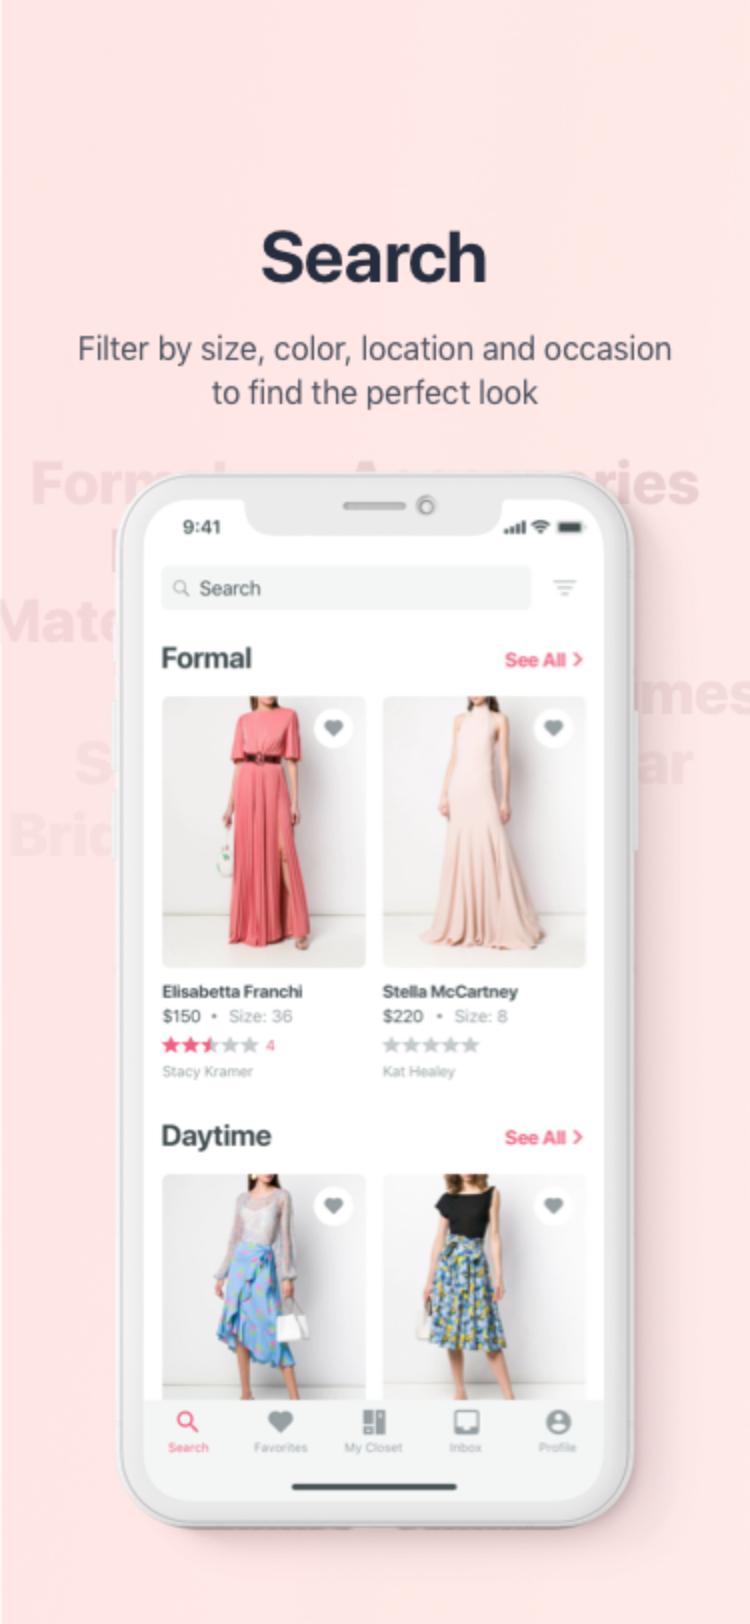
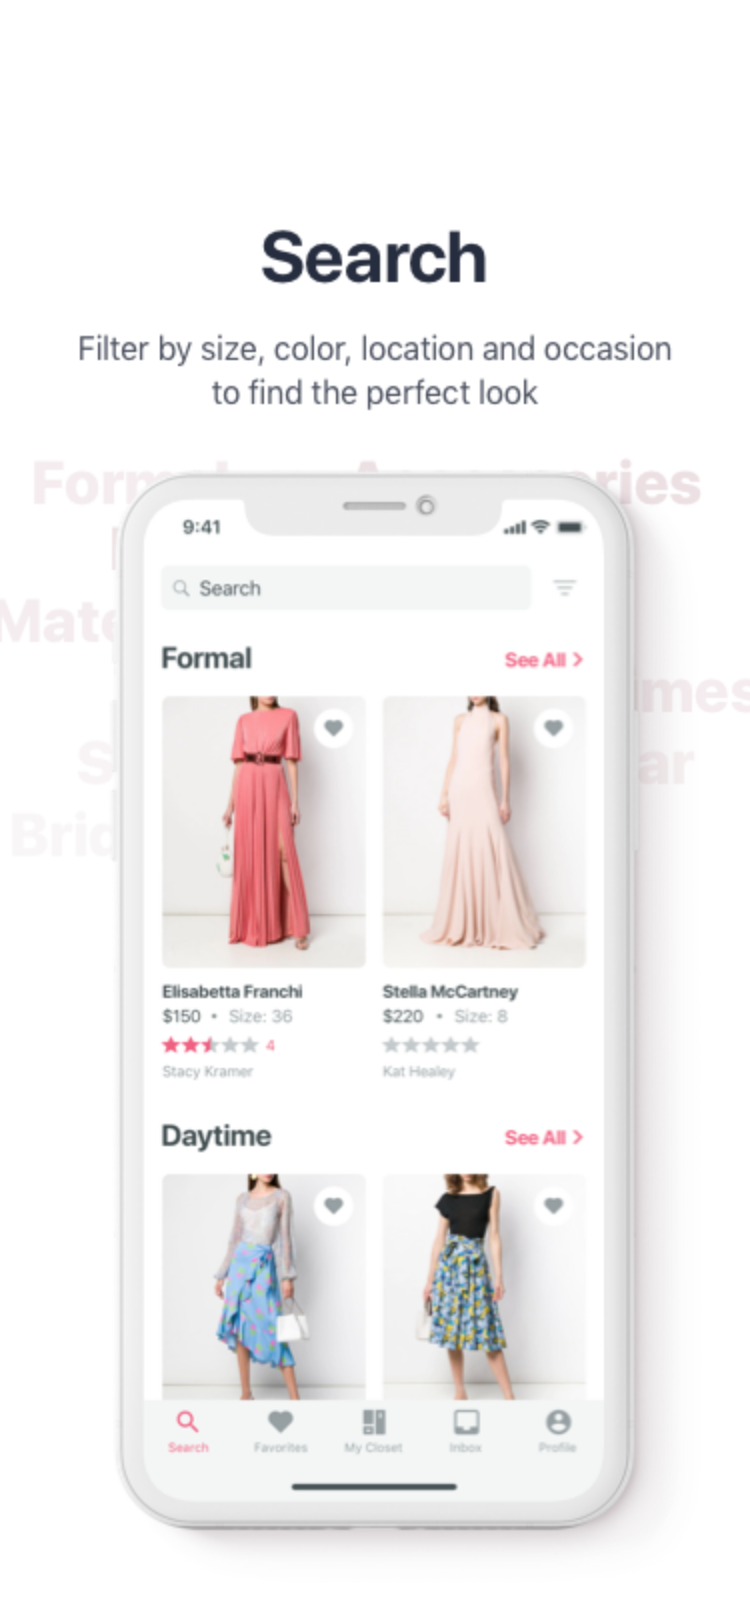
edit new styles

diff --git a/AppIntroSlider.js b/AppIntroSlider.js
@@ -24,7 +24,7 @@ export default class AppIntroSlider extends React.Component {
       backgroundColor: "#F06181"
     },
     dotStyle: {
-      backgroundColor: "#FBFBFB"
+      backgroundColor: "#FAFAFA"
     },
     skipLabel: "Skip",
     doneLabel: "Done",
@@ -154,8 +154,6 @@ export default class AppIntroSlider extends React.Component {
     );
   };
 
-  _renderNextButton = () => this._renderButton("Next", this._onNextPress);
-
   _renderPrevButton = () => this._renderButton("Prev", this._onPrevPress);
 
   _renderDoneButton = () => this._renderButton("Done", this.props.onDone && this.props.onDone);
@@ -188,6 +186,7 @@ export default class AppIntroSlider extends React.Component {
               />
             ))}
         </View>
+        {this._renderSkipButton()}
         {/* {btn} */}
         {/* {skipBtn} */}
       </View>
@@ -231,12 +230,22 @@ export default class AppIntroSlider extends React.Component {
   _renderSkipButton = () => {
     const { skipButtonTextStyle, skipButtonStyle } = this.props;
     return (
-      <TouchableOpacity style={styles.skipButton} onPress={this.props.onSkip} activeOpacity={0.7}>
-        <View style={styles.skipButtonMask} />
-        <Text style={[styles.skipButtonText, skipButtonTextStyle]}>Skip</Text>
+      <TouchableOpacity style={skipButtonStyle} onPress={this.props.onSkip} activeOpacity={0.7}>
+        <Text style={[styles.nextButtonText, skipButtonTextStyle]}>Skip</Text>
       </TouchableOpacity>
     );
   };
+
+  _renderNextButton = () => {
+    const { nextButtonTextStyle, nextButtonStyle } = this.props;
+    return (
+      <TouchableOpacity style={[styles.nextButton, nextButtonStyle]} onPress={this._onNextPress} activeOpacity={0.7}>
+        <View style={styles.skipButtonMask} />
+        <Text style={[styles.skipButtonText, nextButtonTextStyle]}>Next</Text>
+      </TouchableOpacity>
+    );
+  };
+
   render() {
     // Separate props used by the component to props passed to FlatList
     const {
@@ -271,7 +280,7 @@ export default class AppIntroSlider extends React.Component {
           {...otherProps}
         />
         {!hidePagination && this._renderPagination()}
-        {this._renderSkipButton()}
+        {this._renderNextButton()}
       </View>
     );
   }
@@ -281,12 +290,17 @@ const styles = StyleSheet.create({
   flexOne: {
     flex: 1
   },
+  nextButtonText: {
+    fontSize: 14,
+    color: "red",
+    zIndex: 2
+  },
   skipButtonText: {
     fontSize: 16,
     color: "red",
     zIndex: 2
   },
-  skipButton: {
+  nextButton: {
     position: "absolute",
     bottom: isIphoneX ? 34 : 17,
     right: 25,
@@ -321,12 +335,14 @@ const styles = StyleSheet.create({
   paginationContainer: {
     position: "absolute",
     top: 17 + (isIphoneX ? 34 : 0),
-    left: 16,
-    right: 16
+    left: 30,
+    right: 25,
+    flexDirection: "row",
+    justifyContent: "space-between",
+    alignItems: "center"
   },
   paginationDots: {
     height: 16,
-    margin: 16,
     flexDirection: isAndroidRTL ? "row-reverse" : "row",
     justifyContent: "center",
     alignItems: "center"

diff --git a/Example/App.js b/Example/App.js
@@ -33,38 +33,57 @@ const styles = StyleSheet.create({
 
 const slides = [
   {
-    image: require("./assets/appIntro1.png")
+    image: require("./assets/appIntro1.png"),
+    bgImage: require("./assets/appIntroBg1.png")
   },
   {
-    image: require("./assets/appIntro2.png")
+    image: require("./assets/appIntro2.png"),
+    bgImage: require("./assets/appIntroBg2.png")
   },
   {
-    image: require("./assets/appIntro3.png")
+    image: require("./assets/appIntro3.png"),
+    bgImage: require("./assets/appIntroBg3.png")
   },
   {
-    image: require("./assets/appIntro4.png")
+    image: require("./assets/appIntro4.png"),
+    bgImage: require("./assets/appIntroBg4.png")
   },
   {
-    image: require("./assets/appIntro5.png")
+    image: require("./assets/appIntro5.png"),
+    bgImage: require("./assets/appIntroBg5.png")
   },
   {
-    image: require("./assets/appIntro6.png")
+    image: require("./assets/appIntro6.png"),
+    bgImage: require("./assets/appIntroBg6.png")
   },
   {
-    image: require("./assets/appIntro7.png")
+    image: require("./assets/appIntro7.png"),
+    bgImage: require("./assets/appIntroBg7.png")
   },
   {
-    image: require("./assets/appIntro8.png")
+    image: require("./assets/appIntro8.png"),
+    bgImage: require("./assets/appIntroBg8.png")
   }
 ];
 
 export default class App extends React.Component {
-  _renderItem = props => <ImageBackground style={{ width: "100%", height: "100%" }} source={props.image} />;
+  _renderItem = props => (
+    <ImageBackground style={{ width: "100%", height: "100%" }} source={props.bgImage}>
+      <ImageBackground
+        resizeMode="cover"
+        style={{ ...StyleSheet.absoluteFillObject, top: 40, backgroundColor: "transparent" }}
+        source={props.image}
+      />
+    </ImageBackground>
+  );
 
   render() {
     return (
       <AppIntroSlider
         slides={slides}
+        dotStyle={{
+          backgroundColor: "#FAFAFA"
+        }}
         renderItem={this._renderItem}
         // bottomButton
         // showPrevButton={false}
